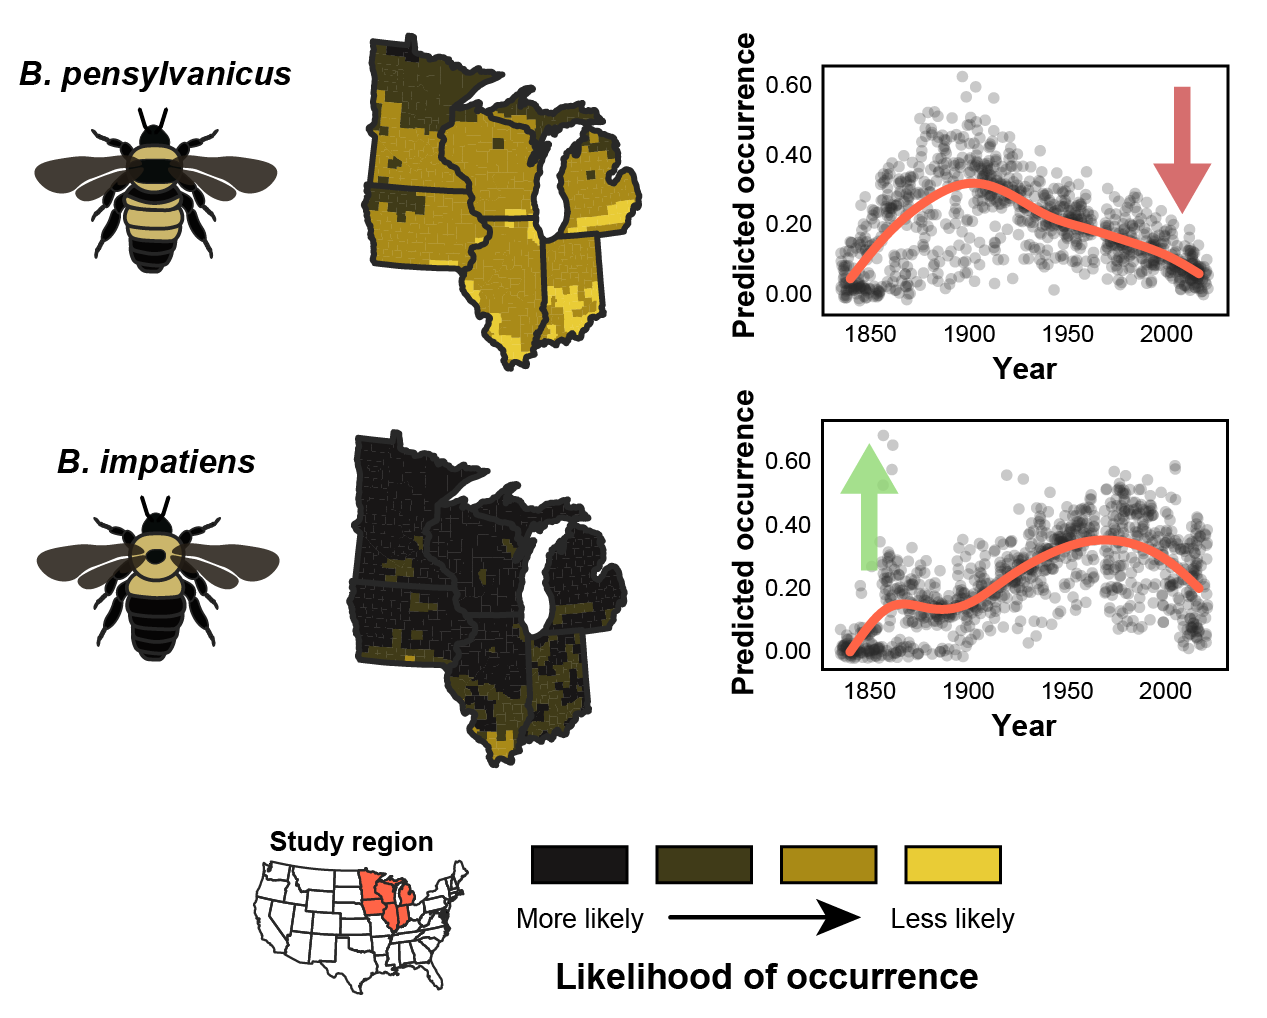
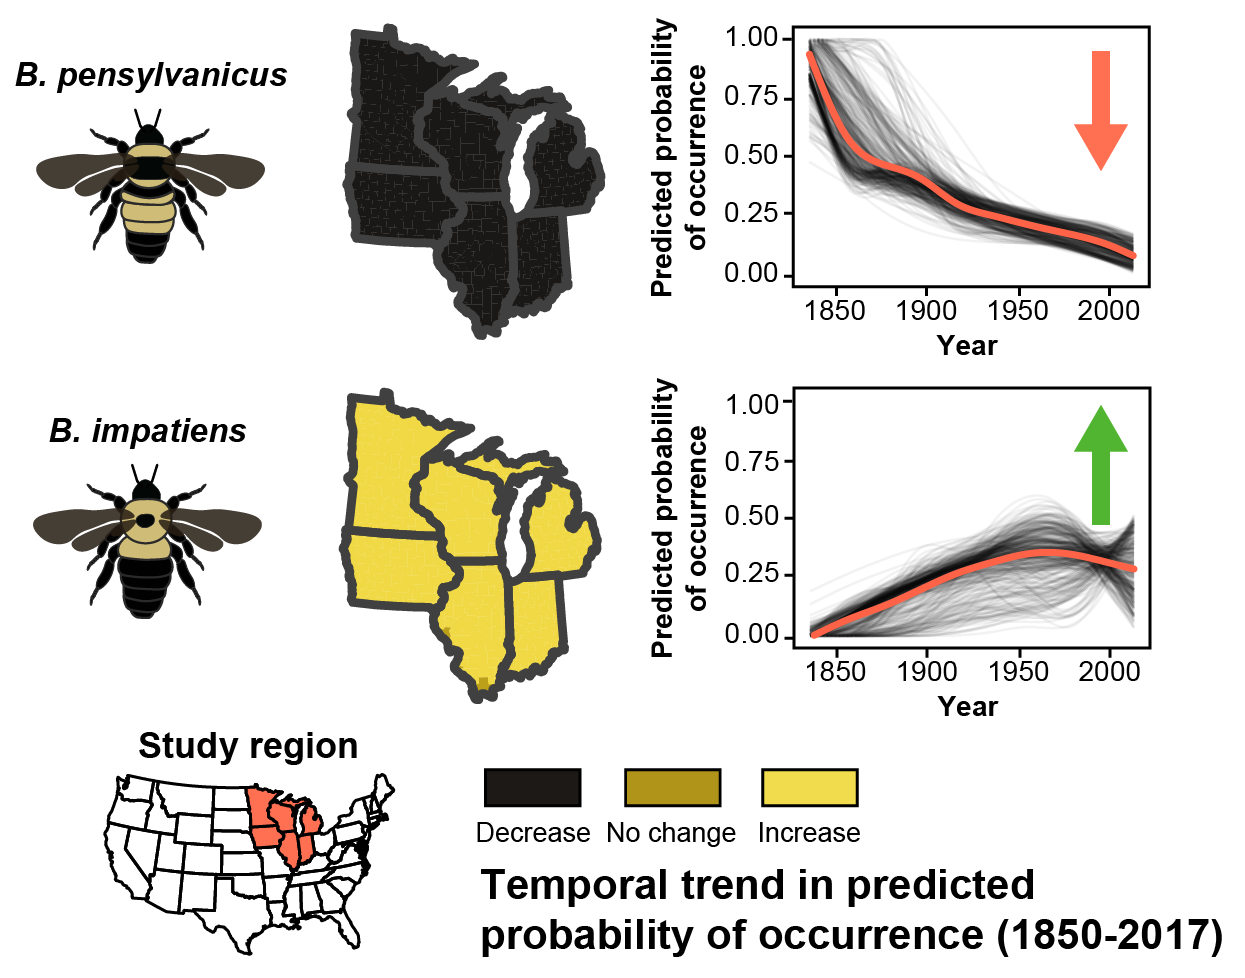
update research page

diff --git a/research/index.html b/research/index.html
@@ -248,17 +248,17 @@ Below you&rsquo;ll find a brief snapshot of my current and past projects, includ
 <h4 id="hahahugoshortcode-s7-hbhb-contrasting-shifts-in-bumble-bee-occurrence-are-associated-with-agricultural-intensification-in-the-north-american-midwest">
 
 <i class="fas  fa-tractor "></i> Contrasting shifts in bumble bee occurrence are associated with agricultural intensification in the North American Midwest</h4>
-<p>Agricultural intensification is a key suspect among putative drivers of recent insect declines, but an explicit link between historical change in agricultural land cover and insect occurrence is lacking. Determining whether agriculture impacts beneficial insects (e.g., pollinators), is crucial to enhancing agricultural sustainability. Here, we combine large spatiotemporal sets of historical bumble bee and agricultural records to show that increasing cropland extent and decreasing crop richness were associated with declines in 60% of bumble bee species in the agriculturally intensive Midwest, USA. Critically, we found that high crop richness was associated with higher occurrence of many species pre-1950 even in agriculturally dominated areas, but that current agricultural landscapes are devoid of sufficient crop richness for bumble bees to realize these benefits. Our findings suggest that insect conservation and agricultural production may be compatible, with increasing on-farm and landscape-level crop diversity predicted to have positive effects on bumble bees. <em>In review</em></p>
+<p>Agricultural intensification is a key suspect among putative drivers of recent insect declines, but an explicit link between historical change in agricultural land cover and insect occurrence is lacking. Determining whether agriculture impacts beneficial insects (e.g., pollinators), is crucial to enhancing agricultural sustainability. Here, we combine large spatiotemporal sets of historical bumble bee and agricultural records to show that increasing cropland extent and decreasing crop richness were associated with declines in 60% of bumble bee species in the agriculturally intensive Midwest, USA. Critically, we found that high crop diversity was associated with higher occurrence of many species pre-1950 even in agriculturally dominated areas, but that current agricultural landscapes are devoid of high crop diversity. Our findings suggest that insect conservation and agricultural production may be compatible, with increasing on-farm and landscape-level crop diversity predicted to have positive effects on bumble bees. <em>Ecology Letters</em> 2021.</p>
 
 
 <div class="box" >
   <figure  itemprop="associatedMedia" itemscope itemtype="http://schema.org/ImageObject">
     <div class="img">
-      <img itemprop="thumbnail" src="/images/projects/spp_compare.png" alt="An illustration of the two distinct patterns of bumble bee response to agricultural intensification in the Midwest. In this example, _B. pensylvanicus_ is predicted to be less likely to occur over time given patterns of agricultural intensification, whereas _B. impatiens_ is expected to more likely to occur. The temporal trend figures on the right are county-level predictions from 1870-2017, displaying 1000 of the 11,000 possibilities (for brevity), fitted by a basic generalized additive model (red line)."/>
+      <img itemprop="thumbnail" src="/images/projects/spp_compare.png" alt="An illustration of the two distinct patterns of bumble bee response to agricultural intensification in the Midwest. In this example, _B. pensylvanicus_ is predicted to be less likely to occur over time given patterns of agricultural intensification, whereas _B. impatiens_ is expected to more likely to occur. The temporal trend figures on the right are county-level predictions from 1870-2017 (thin black lines), along with the overall species trend (red line) fit using a generalized additive model."/>
     </div>
     <a href="/images/projects/spp_compare.png" itemprop="contentUrl"></a>
       <figcaption>
-          <p>An illustration of the two distinct patterns of bumble bee response to agricultural intensification in the Midwest. In this example, _B. pensylvanicus_ is predicted to be less likely to occur over time given patterns of agricultural intensification, whereas _B. impatiens_ is expected to more likely to occur. The temporal trend figures on the right are county-level predictions from 1870-2017, displaying 1000 of the 11,000 possibilities (for brevity), fitted by a basic generalized additive model (red line).</p>
+          <p>An illustration of the two distinct patterns of bumble bee response to agricultural intensification in the Midwest. In this example, _B. pensylvanicus_ is predicted to be less likely to occur over time given patterns of agricultural intensification, whereas _B. impatiens_ is expected to more likely to occur. The temporal trend figures on the right are county-level predictions from 1870-2017 (thin black lines), along with the overall species trend (red line) fit using a generalized additive model.</p>
       </figcaption>
   </figure>
 </div>
